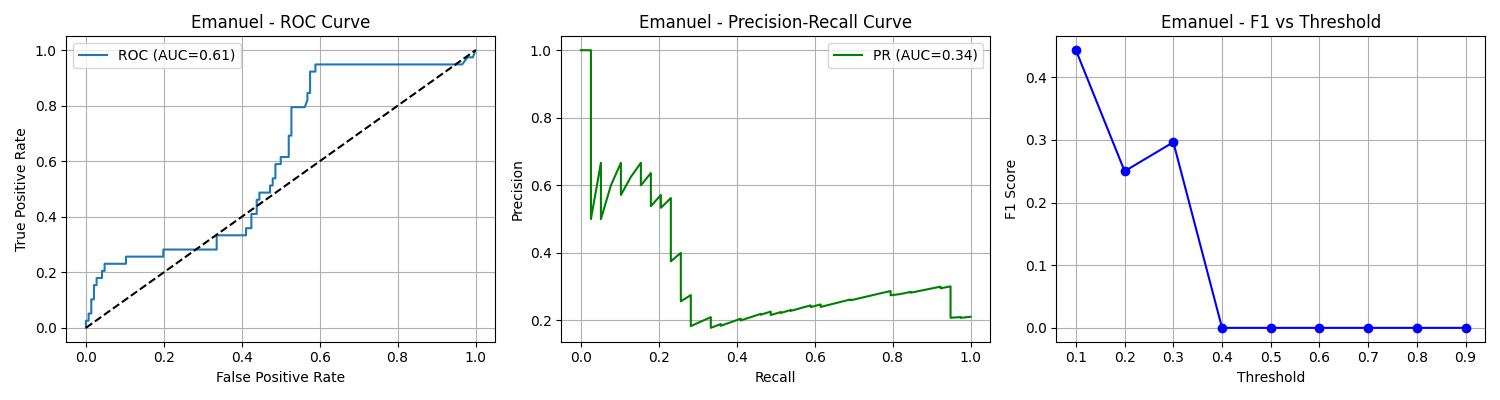
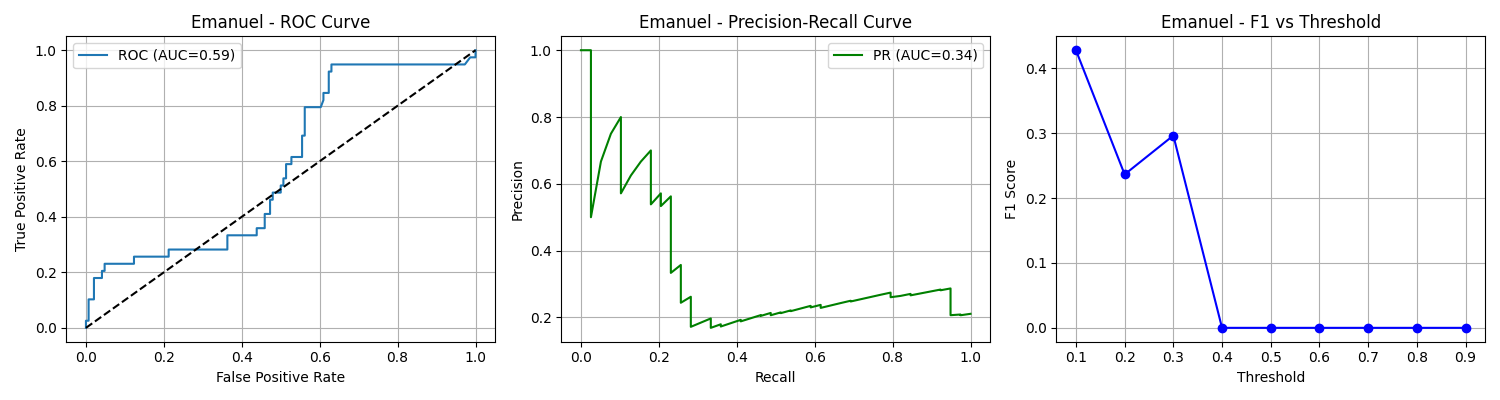
Added Emanuel's KNN recommender with evaluation results

diff --git a/week2/emanuel-knn.py b/week2/emanuel-knn.py
@@ -1,89 +1,103 @@
 import numpy as np
 import pandas as pd
 from sklearn.neighbors import NearestNeighbors
+from pathlib import Path
 
-# Load Week 2 data
-df_views = pd.read_parquet("week2/content_views.parquet")
-df_subs = pd.read_parquet("week2/subscriptions.parquet")
+# ---------- Paths (robust: works from root or from week2/) ----------
+ROOT = Path(__file__).resolve().parent  # points to .../week2
+P = lambda name: ROOT / name
 
+# ---------- Load Week 2 data ----------
+df_views = pd.read_parquet(P("content_views.parquet"))
+df_subs  = pd.read_parquet(P("subscriptions.parquet"))
+
+# Choose publisher with most unique subscribers
 pub_counts = df_subs.groupby("publisher_id")["adventurer_id"].nunique()
 publisher_id = pub_counts.idxmax()
 print(f"Publisher chosen: {publisher_id}")
 
+# Restrict to that publisher and its subscribers
 subs_pub = df_subs[df_subs["publisher_id"] == publisher_id]
 sub_ids = set(subs_pub["adventurer_id"].unique())
 
 views_pub = df_views[
-    (df_views["publisher_id"] == publisher_id) &
-    (df_views["adventurer_id"].isin(sub_ids))
+    (df_views["publisher_id"] == publisher_id)
+    & (df_views["adventurer_id"].isin(sub_ids))
 ].copy()
 
-# ADD 80/20 SPLIT PER USER - THIS IS NEW
-def create_train_test_split(df):
-    """Split each user's data: 80% train, 20% test"""
-    train_list = []
-    test_list = []
-    
-    for uid in df['adventurer_id'].unique():
-        user_data = df[df['adventurer_id'] == uid].sort_values('content_id')
-        
+# ---------- 80/20 split per user ----------
+def create_train_test_split(df: pd.DataFrame):
+    """Split each user's rows into 80% train / 20% test (by content_id order)."""
+    train_list, test_list = [], []
+    for uid in df["adventurer_id"].unique():
+        user_data = df[df["adventurer_id"] == uid].sort_values("content_id")
         if len(user_data) >= 5:
-            n_train = int(len(user_data) * 0.8)
+            n_train = max(1, int(len(user_data) * 0.8))
             train_list.append(user_data.iloc[:n_train])
             test_list.append(user_data.iloc[n_train:])
         else:
+            # too few rows: use all in train
             train_list.append(user_data)
-    
-    return pd.concat(train_list), pd.concat(test_list)
+    train_df = pd.concat(train_list, ignore_index=True)
+    test_df = pd.concat(test_list, ignore_index=True) if test_list else pd.DataFrame(columns=df.columns)
+    return train_df, test_df
 
 # Split the data
 train_views, test_views = create_train_test_split(views_pub)
 print(f"Train: {len(train_views)} rows, Test: {len(test_views)} rows")
 
-# Build user-item matrix on TRAINING DATA ONLY
+# ---------- Build user-item matrix on TRAINING DATA ONLY ----------
+train_views = train_views.copy()
 train_views["value"] = 1
 user_item = (
     train_views.groupby(["adventurer_id", "content_id"])["value"]
-    .max().unstack(fill_value=0).astype(np.float32)
+    .max()
+    .unstack(fill_value=0)
+    .astype(np.float32)
 )
 
 print(f"User-item matrix: {user_item.shape}")
 
 item_user = user_item.T
-knn = NearestNeighbors(metric="cosine", algorithm="brute", n_neighbors=min(20, len(item_user)))
+n_neighbors = min(20, len(item_user))
+knn = NearestNeighbors(metric="cosine", algorithm="brute", n_neighbors=n_neighbors)
 knn.fit(item_user.values)
 
-items_index = item_user.index.to_list()
-item_matrix = item_user.values
+item_matrix = item_user.values  # shape: (n_items, n_users)
 
 def recommend2(uid: str) -> list[str]:
-    """Recommend 2 unseen items for a user"""
+    """Recommend 2 unseen items for a user using item-item cosine KNN."""
     if uid not in user_item.index:
         return []
     seen_idx = np.where(user_item.loc[uid].values > 0)[0]
     if len(seen_idx) == 0:
         return []
+    # Get neighbors for each seen item
     dists, idxs = knn.kneighbors(item_matrix[seen_idx], return_distance=True)
-    scores = np.zeros(user_item.shape[1], dtype=np.float32)
+    scores = np.zeros(user_item.shape[1], dtype=np.float32)  # one score per item
     for drow, irow in zip(dists, idxs):
         sims = 1.0 - drow
         np.add.at(scores, irow, sims)
+    # Don't recommend items already seen
     scores[seen_idx] = -np.inf
+    # Top-2 indices
     top = np.argsort(-scores)[:2]
     return [user_item.columns[i] for i in top if np.isfinite(scores[i])]
 
-# Pick 9 adventurers (not 3, assignment says 9)
+# ---------- Pick 9 active users and write CSV ----------
 user_activity = user_item.sum(axis=1).sort_values(ascending=False).index.tolist()
-rows, picked_users = [], []
+
+rows = []
 for uid in user_activity:
     recs = recommend2(uid)
     if len(recs) == 2:
         rows.append((uid, recs[0], recs[1]))
-        picked_users.append(uid)
-    if len(rows) >= 9:  # Changed from 3 to 9
+    if len(rows) >= 9:
         break
 
 eval_df = pd.DataFrame(rows, columns=["adventurer_id", "rec1", "rec2"])
-eval_df.to_csv("week2/emanuel-eval.csv", index=False)
-print("\nTop 9 users with recommendations:")
+out_csv = P("emanuel-eval.csv")
+eval_df.to_csv(out_csv, index=False)
+
+print("\nTop 9 users with recommendations (saved to emanuel-eval.csv):")
 print(eval_df)

diff --git a/week2/emanuel-evaluate.py b/week2/emanuel-evaluate.py
@@ -4,10 +4,15 @@ from sklearn.neighbors import NearestNeighbors
 from sklearn.metrics import roc_curve, precision_recall_curve, auc, f1_score
 import matplotlib.pyplot as plt
 import csv
+from pathlib import Path
 
-# Load data
-df_views = pd.read_parquet("week2/content_views.parquet")
-df_subs = pd.read_parquet("week2/subscriptions.parquet")
+# ---------- Paths (robust: works from root or inside week2/) ----------
+ROOT = Path(__file__).resolve().parent
+P = lambda name: ROOT / name
+
+# ---------- Load data ----------
+df_views = pd.read_parquet(P("content_views.parquet"))
+df_subs  = pd.read_parquet(P("subscriptions.parquet"))
 
 pub_counts = df_subs.groupby("publisher_id")["adventurer_id"].nunique()
 publisher_id = pub_counts.idxmax()
@@ -20,7 +25,7 @@ views_pub = df_views[
     (df_views["adventurer_id"].isin(sub_ids))
 ].copy()
 
-# Split data per user
+# ---------- Split data per user ----------
 def create_splits(df):
     train_list, test_list = [], []
     for uid in df['adventurer_id'].unique():
@@ -35,7 +40,7 @@ def create_splits(df):
 
 train_views, test_views = create_splits(views_pub)
 
-# Build KNN model on training data
+# ---------- Build KNN model ----------
 train_views["value"] = 1
 user_item = (
     train_views.groupby(["adventurer_id", "content_id"])["value"]
@@ -59,34 +64,31 @@ def score_item(uid, item_id):
     item_idx = user_item.columns.get_loc(item_id)
     dists, idxs = knn.kneighbors([item_matrix[item_idx]], n_neighbors=min(10, len(item_user)))
     
-    # Average similarity to user's watched items
     sims = 1.0 - dists[0]
     overlap = np.isin(idxs[0], seen_idx)
     if overlap.sum() == 0:
         return 0.0
     return sims[overlap].mean()
 
-# Evaluate on the 9 users from your recommendations
-with open('week2/emanuel-eval.csv', 'r') as f:
+# ---------- Evaluate on 9 users ----------
+with open(P("emanuel-eval.csv"), "r") as f:
     reader = csv.DictReader(f)
     eval_users = [row['adventurer_id'] for row in reader]
 
 y_true, y_scores = [], []
 
 for uid in eval_users:
-    # Positive examples: items in test set
     test_items = test_views[test_views['adventurer_id'] == uid]['content_id'].values
-    
     if len(test_items) == 0:
         continue
     
-    # Score positive examples
+    # positives
     for item in test_items:
         score = score_item(uid, item)
         y_true.append(1)
         y_scores.append(score)
     
-    # Negative examples: random unwatched items
+    # negatives
     all_items = user_item.columns.values
     watched = train_views[train_views['adventurer_id'] == uid]['content_id'].values
     unwatched = [i for i in all_items if i not in watched and i not in test_items]
@@ -98,14 +100,13 @@ for uid in eval_users:
             y_true.append(0)
             y_scores.append(score)
 
-# Calculate metrics
+# ---------- Metrics ----------
 fpr, tpr, _ = roc_curve(y_true, y_scores)
 roc_auc = auc(fpr, tpr)
 
 precision, recall, _ = precision_recall_curve(y_true, y_scores)
 pr_auc = auc(recall, precision)
 
-# Test thresholds
 thresholds = np.linspace(0.1, 0.9, 9)
 f1_scores = []
 for thresh in thresholds:
@@ -121,7 +122,7 @@ print(f"ROC-AUC: {roc_auc:.3f}")
 print(f"PR-AUC: {pr_auc:.3f}")
 print(f"Best F1: {best_f1:.3f} at threshold {best_thresh:.2f}")
 
-# Plot
+# ---------- Plots ----------
 plt.figure(figsize=(15, 4))
 
 plt.subplot(1, 3, 1)
@@ -149,6 +150,6 @@ plt.title('Emanuel - F1 vs Threshold')
 plt.grid(True)
 
 plt.tight_layout()
-plt.savefig('week2/emanuel_evaluation.png')
-print("\nPlots saved to week2/emanuel_evaluation.png")
+plt.savefig(P("emanuel_evaluation.png"))
+print("\nPlots saved to emanuel_evaluation.png")
 plt.show()
